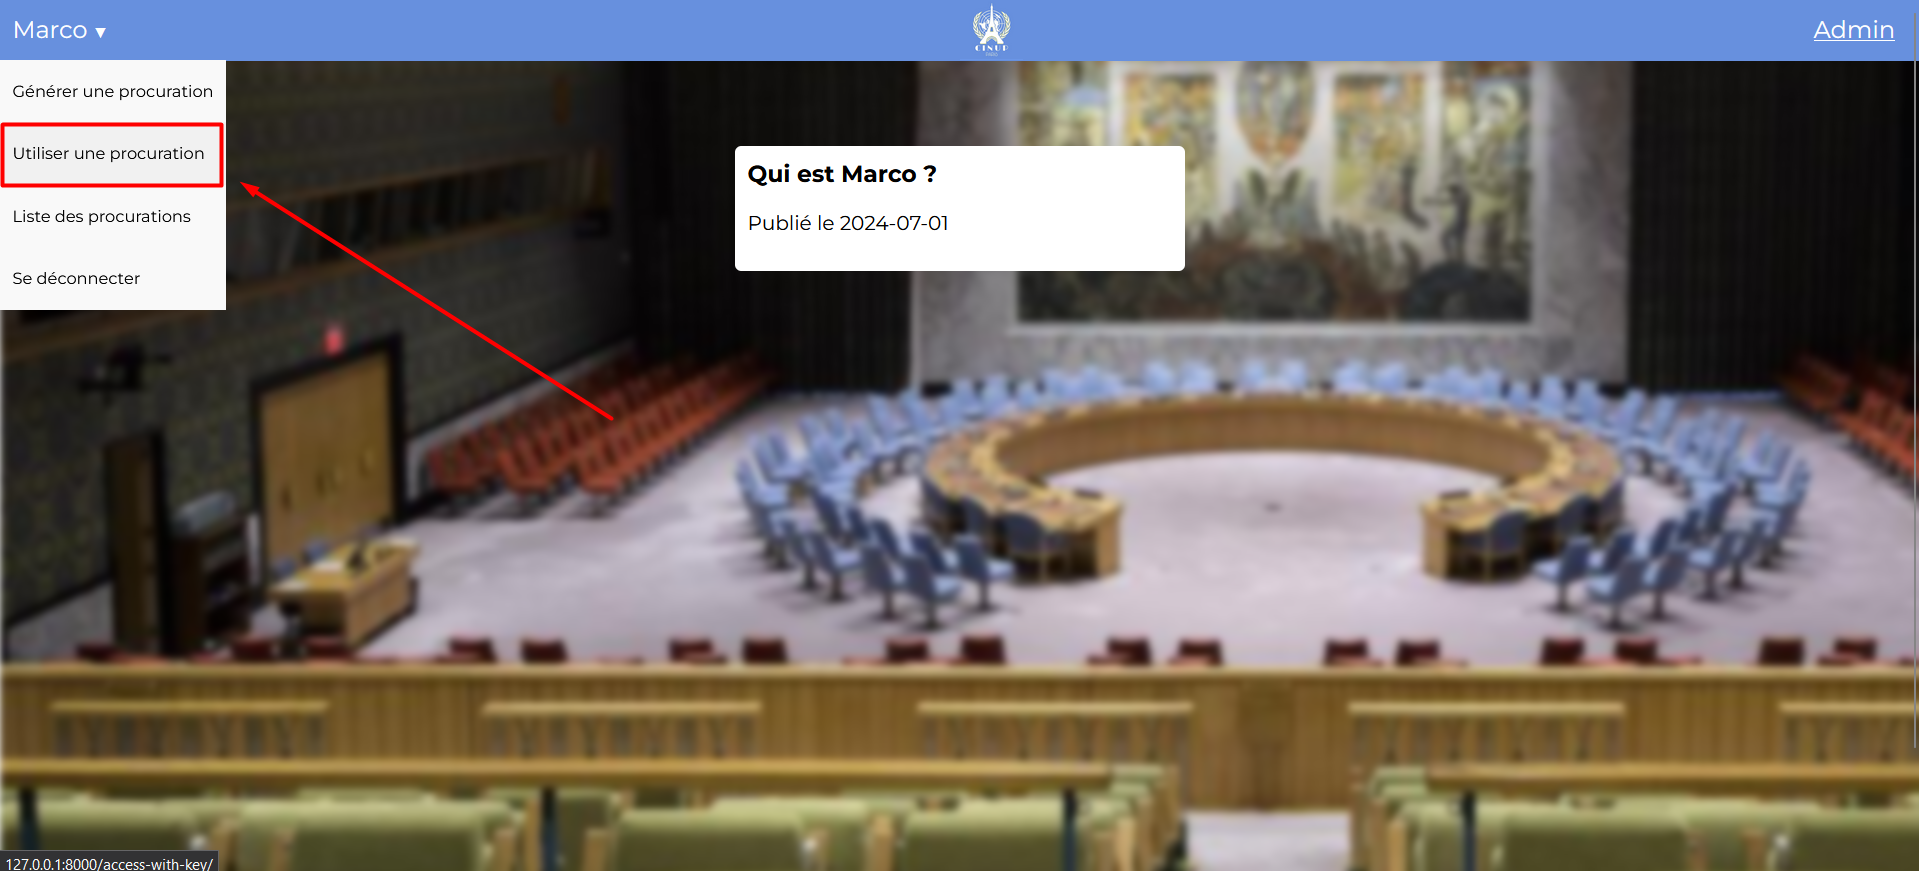
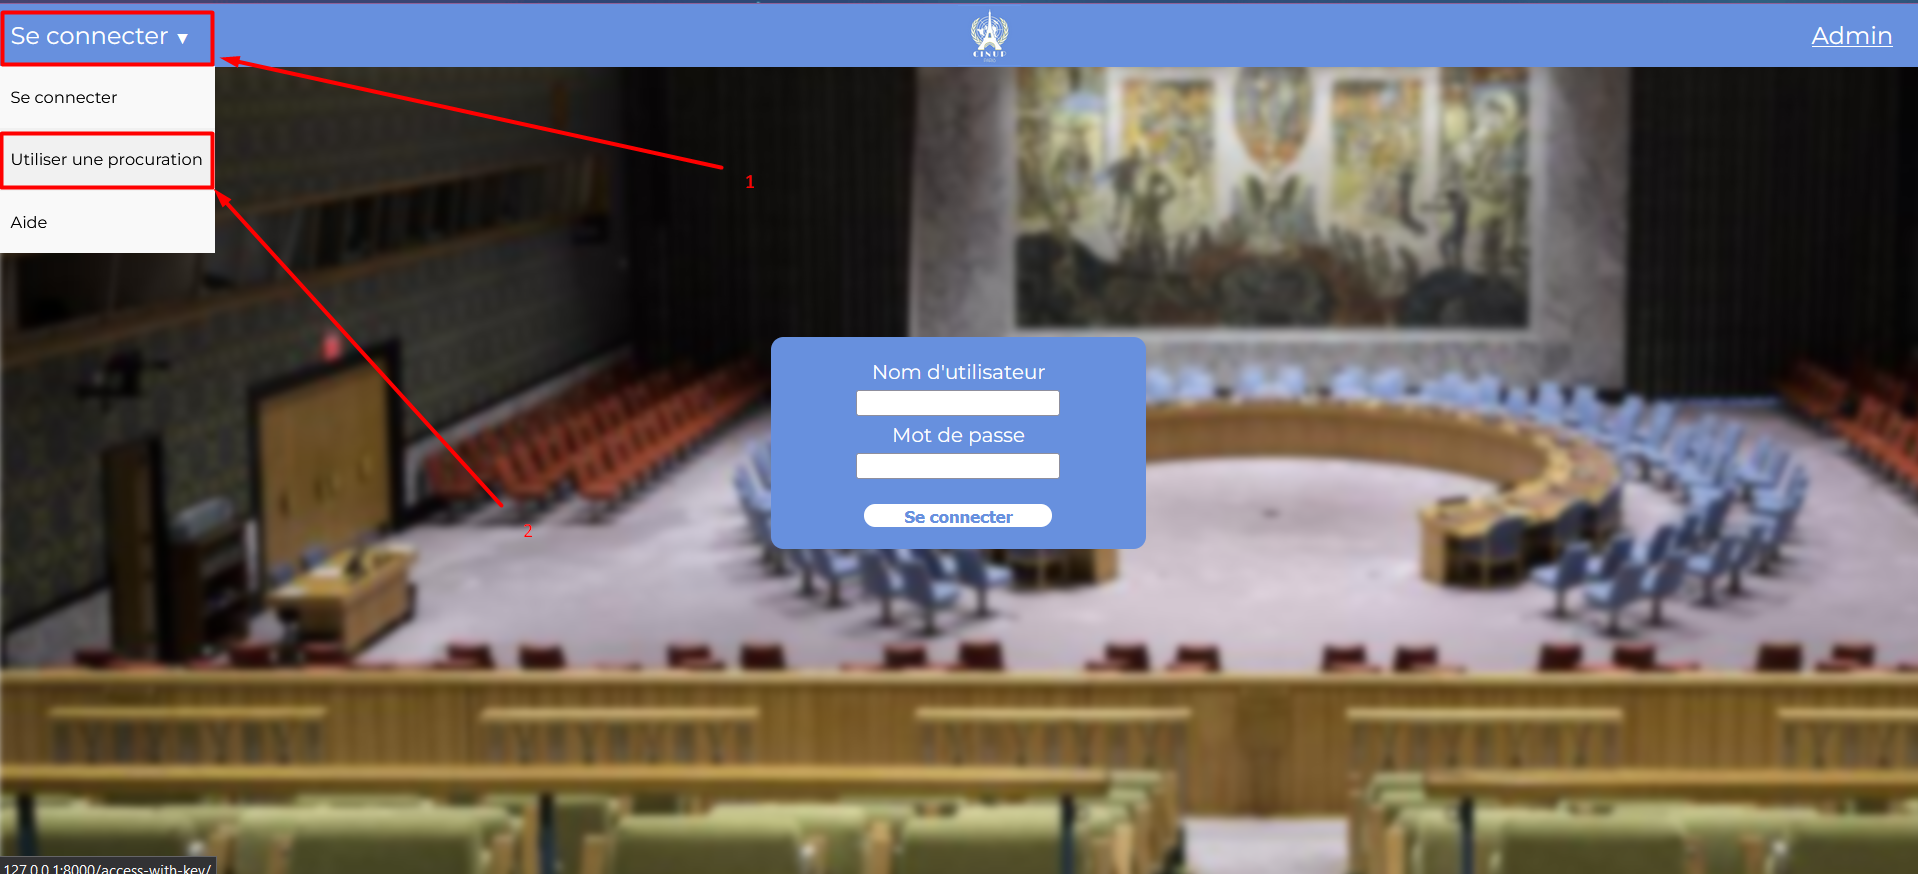
modified help page

diff --git a/voteApp/templates/help.html b/voteApp/templates/help.html
@@ -33,6 +33,20 @@
                     </li>
                 </ul>
             </div>
+            {% else %}
+            <div id="username" class="username">Se connecter<span class="arrow">▼</span></div>
+            <div id="userMenu" class="menu" style="display: none;">
+                <ul>
+                    <li class="menu_element">
+                        <a href="{% url 'voteApp:login' %}">Se connecter</a>
+                    </li>
+                    <li class="menu_element">
+                        <a href="{% url 'voteApp:access-with-key' %}">Utiliser une procuration</a>
+                    <li class="menu_element">
+                        <a href="{% url 'voteApp:aide' %}">Aide</a>
+                    </li>
+                </ul>
+            </div>
             {% endif %}
             <a href="{% url 'voteApp:index' %}">
                 <img id="logo" src="{% static 'voteApp/img/android-chrome-512x512.png' %}">
@@ -67,13 +81,14 @@
             <p>Vous êtes le seul responsable des clés que vous générez et des accès que vous autorisez à votre compte.</p>
 
             <h2 id="use-procu" class="details-title">Comment utiliser une procuration ?</h2>
-            <p>Connectez-vous au site <span class="redirection-link"><a href="{% url 'voteApp:login' %}">ag.cinup.fr</a></span>.</p>
+            <p>Allez sur le site <span class="redirection-link"><a href="{% url 'voteApp:login' %}">ag.cinup.fr</a></span>.</p>
             <img class="tuto-img" src="{% static 'voteApp/img/use_procu.png' %}">
-            <p>Cliquez sur votre nom d'utilisateur, puis sur "Utiliser une procuration".</p>
+            <p>Cliquez sur l'onglet "Se connecter", puis sur "Utiliser une procuration".</p>
             <img class="tuto-img" src="{% static 'voteApp/img/input_procu.png' %}">
             <p>Rentrez la clé de procuration que l'on vous a soigneusement donnée, puis validez.</p>
             <img class="tuto-img" src="{% static 'voteApp/img/promethei_procu.png' %}">
             <p>Vous êtes désormais connectés au compte de l'utilisateur qui a généré la clé.</p>
+            <p>Précision : vous pouvez utiliser une clé de procuration si vous êtes connecté ou non.</p>
 
             <h2 id="mdp-lost"class="details-title">Mot de passe perdu</h2>
             <p>En cas de perte de mot de passe, veuillez contacter le pole services à l'adresse <span class="redirection-link">()</span>.</p>
